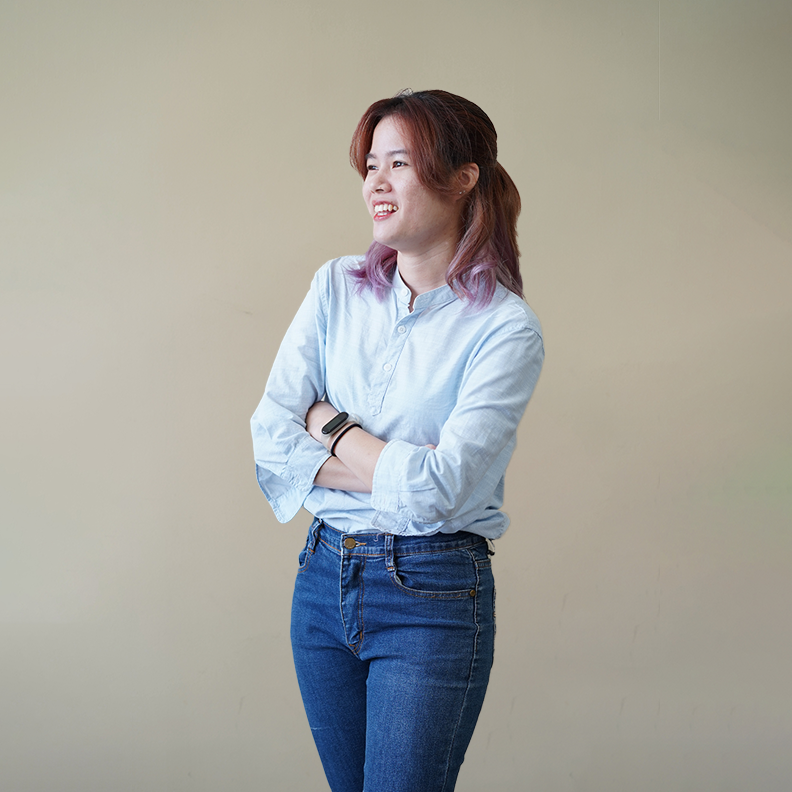
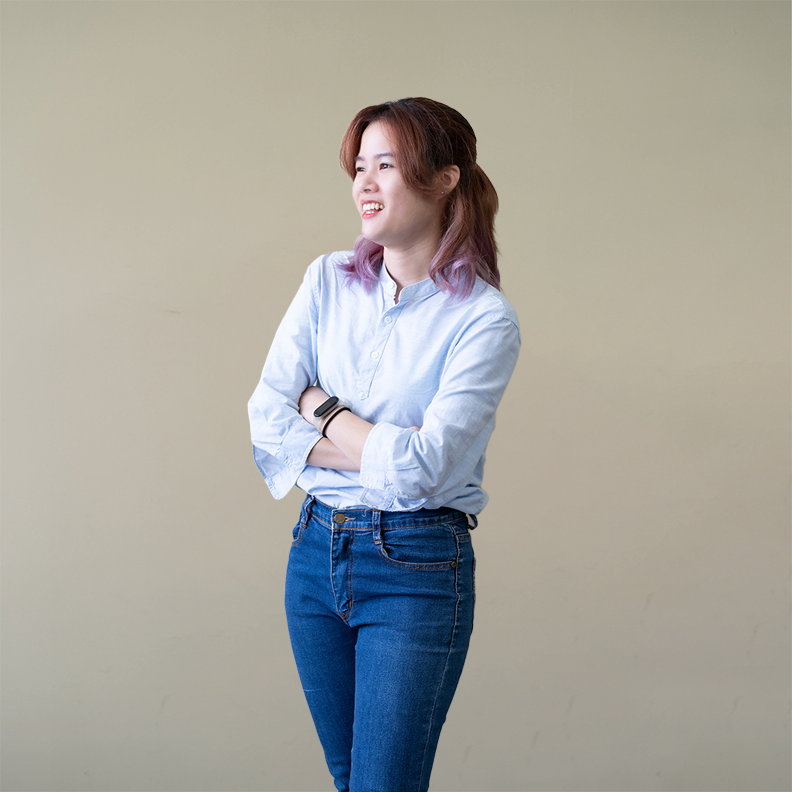
Update new team member

Changed region(s): [[0.303, 0.0909, 0.697, 1.0]]

diff --git a/_sass/salween-theme.scss b/_sass/salween-theme.scss
@@ -332,6 +332,11 @@ h1.navbar-header {
       li {
         top: 30px;
         @include make-md-column(4);
+
+        img {
+          margin: 0 auto 30px;
+        }
+
         &:first-child {
           top: 0;
         }
@@ -349,8 +354,7 @@ h1.navbar-header {
     float: left;
 }
 .list-team {
-    width: 100%;
-    float: none;
+    width: 50%;
 }
 @media (min-width: 992px) {
     .list-team {

diff --git a/index.md b/index.md
@@ -137,7 +137,31 @@ Window Azure
 <section class="content-team" id="TEAM">
 {::options auto_ids="false" /}
 <div class="animated">
-## We are a Team of Developers & Suits
+## We are a Team of Suits & Developers & Business team
+</div>
+
+<div class="animated">
+### The Suits
+</div>
+
+{: .animated .theSuits}
+- ![Charles](./assets/images/Charles.png){: .animated}
+#### Charles    
+##### Managing Director
+No work day is complete without **podcasts and to-do lists.**  
+When I have free time I spend it **rebuilding my media center.**
+- ![Jun](./assets/images/Jun-01.png){: .animated}
+#### Jun    
+##### Administration and HR Manager
+No work day is complete without **a cup of ice Cappuccino.**
+When I have free time I spend it **with my dogs.**
+- ![Cherie](./assets/images/Cherie.png){: .animated}
+#### Cherie
+##### Executive Administrative Assistant    
+No work day is complete without **ice latte.**
+When I have free time I spend it **listen to music and exercise.**
+
+<div class="animated">
 ### The Developers
 </div>
 
@@ -172,8 +196,6 @@ When I have free time I spend it **working out and traveling.**
 No work day is complete without **energetic music.**
 When I have free time I spend it **watching movies or chilling with games.**
 
-{: .photo02 .animated}
-
 - ![Pek](./assets/images/Pek-01.png){: .animated}
 #### Pek    
 ##### Software Developer
@@ -193,98 +215,186 @@ No work day is complete without **learning.**
 When I have free time I spend it **planting trees, reading books, and watching movies.**
 
 
-
 - ![Tae](./assets/images/Santi-01.png){: .animated}
 #### Tae    
 ##### Graphic Designer
 No work day is complete without **amusement.**  
 When I have free time I spend it **listening to music.**
 
-- ![Ae](./assets/images/Ae.png){: .animated}
-#### Ae
+<div class="animated"> 
+### Business team
+</div>
 
-- ![Aim](./assets/images/Aim.png){: .animated}
-#### Aim
+{: .photo02 .animated}
+- ![Ling](./assets/images/Ling.png){: .animated}
+#### Ling
+##### Team Lead
+No work day is complete without **our wonderfull team and americano.** 
+When I have free time I spend it **on novel.**
 
-- ![Amy](./assets/images/Amy.png){: .animated}
-#### Amy
 
-- ![Ann](./assets/images/Ann.png){: .animated}
-#### Ann
-
-- ![Aum](./assets/images/Aum.png){: .animated}
-#### Aum
-
-- ![Cartoon](./assets/images/Cartoon.png){: .animated}
-#### Cartoon
-
-- ![Cin](./assets/images/Cin.png){: .animated}
-#### Cin
-
-- ![Fahsai](./assets/images/Fahsai.png){: .animated}
-#### Fahsai
-
-- ![Jam](./assets/images/Jam.png){: .animated}
-#### Jam
-
-- ![Jin](./assets/images/Jin.png){: .animated}
-#### Jin
-
-- ![Job](./assets/images/Job.png){: .animated}
-#### Job
-
-- ![Kim](./assets/images/Kim.png){: .animated}
-#### Kim
-
-- ![Max](./assets/images/Max.png){: .animated}
-#### Max
-
-- ![May](./assets/images/May.png){: .animated}
-#### May
-
-- ![Muay](./assets/images/Muay.png){: .animated}
-#### Muay
 
 - ![Noey](./assets/images/Noey.png){: .animated}
 #### Noey
-
-- ![Nook](./assets/images/Nook.png){: .animated}
-#### Nook
+##### Team Lead
+No work day is complete without **coffee.**
+When I have free time I spend it **game show, travel vlong and VDO on youtube.**
 
 - ![Noom](./assets/images/Noom.png){: .animated}
 #### Noom
+##### Team Lead
+No work day is complete without **ice latte.**
+When I have free time I spend it **on novel.** 
+- ![Ae](./assets/images/Ae.png){: .animated}
+#### Ae
+##### Team member
+No work day is complete without **my notebook and a pen ( individually ) and my co - worker ( as a team )**
+When I have free time I spend it **watching football, formula 1, youtube and musics**
+
+- ![Aim](./assets/images/Aim.png){: .animated}
+#### Aim
+##### Team member
+No work day is complete without **a cup of full - sweet coffee.**
+When I have free time I spend it **watching some Tiktok video.**
+
+- ![Ann](./assets/images/Ann.png){: .animated}
+#### Ann
+##### Team member
+No work day is complete without **cup of cocoa.**
+When I have free time I spend it **museums tour.**
+
+- ![Aum](./assets/images/Aum.png){: .animated}
+#### Aum
+##### Team member
+No work day is complete without **Americano.**
+When I have free time I spend it **on Netflix.**
+
+- ![Cartoon](./assets/images/Cartoon.png){: .animated}
+#### Cartoon
+##### Team member
+No work day is complete without **food and snacks.**
+When I have free time I spend it **internet.**
+
+- ![Cin](./assets/images/Cin.png){: .animated}
+#### Cin
+##### Team member
+No work day is complete without **coffee, headphone and friends.**
+When I have free time I spend it **going on picnic at the park and watching a crime documentary.**
+
+- ![Fahsai](./assets/images/Fahsai.png){: .animated}
+#### Fahsai
+##### Team member
+No work day is complete without **sweets.**
+When I have free time I spend it **reading books.** 
+
+- ![Jam](./assets/images/Jam.png){: .animated}
+#### Jam
+##### Team member
+No work day is complete without **food.**
+When I have free time I spend it **listening to the music.**
+
+- ![Jin](./assets/images/Jin.png){: .animated}
+#### Jin
+##### Team member
+No work day is complete without **water.**
+When I have free time I spend it **chitchat about NCT 127 Korean band.**
+
+- ![Job](./assets/images/Job.png){: .animated}
+#### Job
+##### Team member
+No work day is complete without **chocolate.**
+When I have free time I spend it **reading cartoon books.**
+
+- ![Kim](./assets/images/Kim.png){: .animated}
+#### Kim
+##### Team member
+No work day is complete without **food.**
+When I have free time I spend it **Netflix.**
+
+- ![Meen](./assets/images/Meen.png){: .animated}
+#### Meen
+##### Team member
+No work day is complete without **iced cocoa.**
+When I have free time I spend it **watching movies and reading fiction.**
+
+- ![Mon](./assets/images/Mon.png){: .animated}
+#### Mon
+##### Team member
+No work day is complete without **my favorate cup of coffee.**
+When  I have free time I spend it **at gym lift weghts and cardio.**
+
+- ![Muay](./assets/images/Muay.png){: .animated}
+#### Muay
+##### Team member
+No work day is complete without **energy and milos.**
+When I have free time I spend it **singing.**
+
+- ![Nava](./assets/images/Nava.png){: .animated}
+#### Nava
+##### Team Lead
+No work day is complete without **plan.**
+When I have free time I spen it **study financial and investment.**
+
+- ![Nene](./assets/images/Nene.png){: .animated}
+#### Nene
+##### Team Lead
+No work day is complete without **dessert come with milk.**
+When I have free time I spend it **enjoiying with Anime movie and pets.**
+
+
+- ![Nook](./assets/images/Nook.png){: .animated}
+#### Nook
+##### Team Lead
+No work day is complete without **coffee.**
+When I have free time I spend it **on shopping.**
 
 - ![Pookie](./assets/images/Pookie.png){: .animated}
 #### Pookie
+##### Team member
+No work day is complete without **tea.**
+When I have free time I spend it **music and watching cartoons.**
 
 - ![Prae](./assets/images/Prae.png){: .animated}
 #### Prae
+##### Team member
+No work day is complete without **coffee and music.**
+When I have free time I spend it **listening the music.**
 
 - ![Toi](./assets/images/Toi.png){: .animated}
 #### Toi
+##### Team member
+No work day is complete without **music.**
+When I have free time I spend it **sleeping.**
+
+- ![Wes](./assets/images/Wes.png){: .animated}
+#### Wes
+##### Team member
+No work day is complete without **coffee.**
+When  I have free time I spend it **excercise.**
 
 - ![Ying](./assets/images/Ying.png){: .animated}
 #### Ying
+##### Team member
+No work day is complete without **herbal inhaler.**
+When I have free time I spend it **eating.**
 
+- ![Amy](./assets/images/Amy.png){: .animated}
+#### Amy
+##### Graphic Designer
+No work day is complete without **STRONG coffe and music.**
+When I have free time I spend it **with watch movies and hiking in some park or mountains, and sometimes exploring indiffent places.**
 
-<div class="animated">
-### The Suits
-</div>
+- ![Max](./assets/images/Max.png){: .animated}
+#### Max
+##### Graphic Designer
+No work day is complete without **journey on my though.**
+When I have free time I spend it **with my computer for news and movies or series.**
 
-{: .animated .theSuits}
-- ![Charles](./assets/images/Charles.png){: .animated}
-#### Charles    
-##### Managing Director
-No work day is complete without **podcasts and to-do lists.**  
-When I have free time I spend it **rebuilding my media center.**
-- ![Jun](./assets/images/Jun-01.png){: .animated}
-#### Jun    
-##### Administration and HR Manager
-No work day is complete without **a cup of ice Cappuccino.**
-When I have free time I spend it **with my dogs.**
-- ![Cherie](./assets/images/Cherie.png){: .animated}
-#### Cherie    
-
+- ![May](./assets/images/May.png){: .animated}
+#### May
+##### Graphic Designer
+No work day is complete without **iced chocolate ( Light sweet ).**
+When I have free time I spend it **listening to music.**
 </section>
 <section class="job" id="job">
 <div class="animated container">
